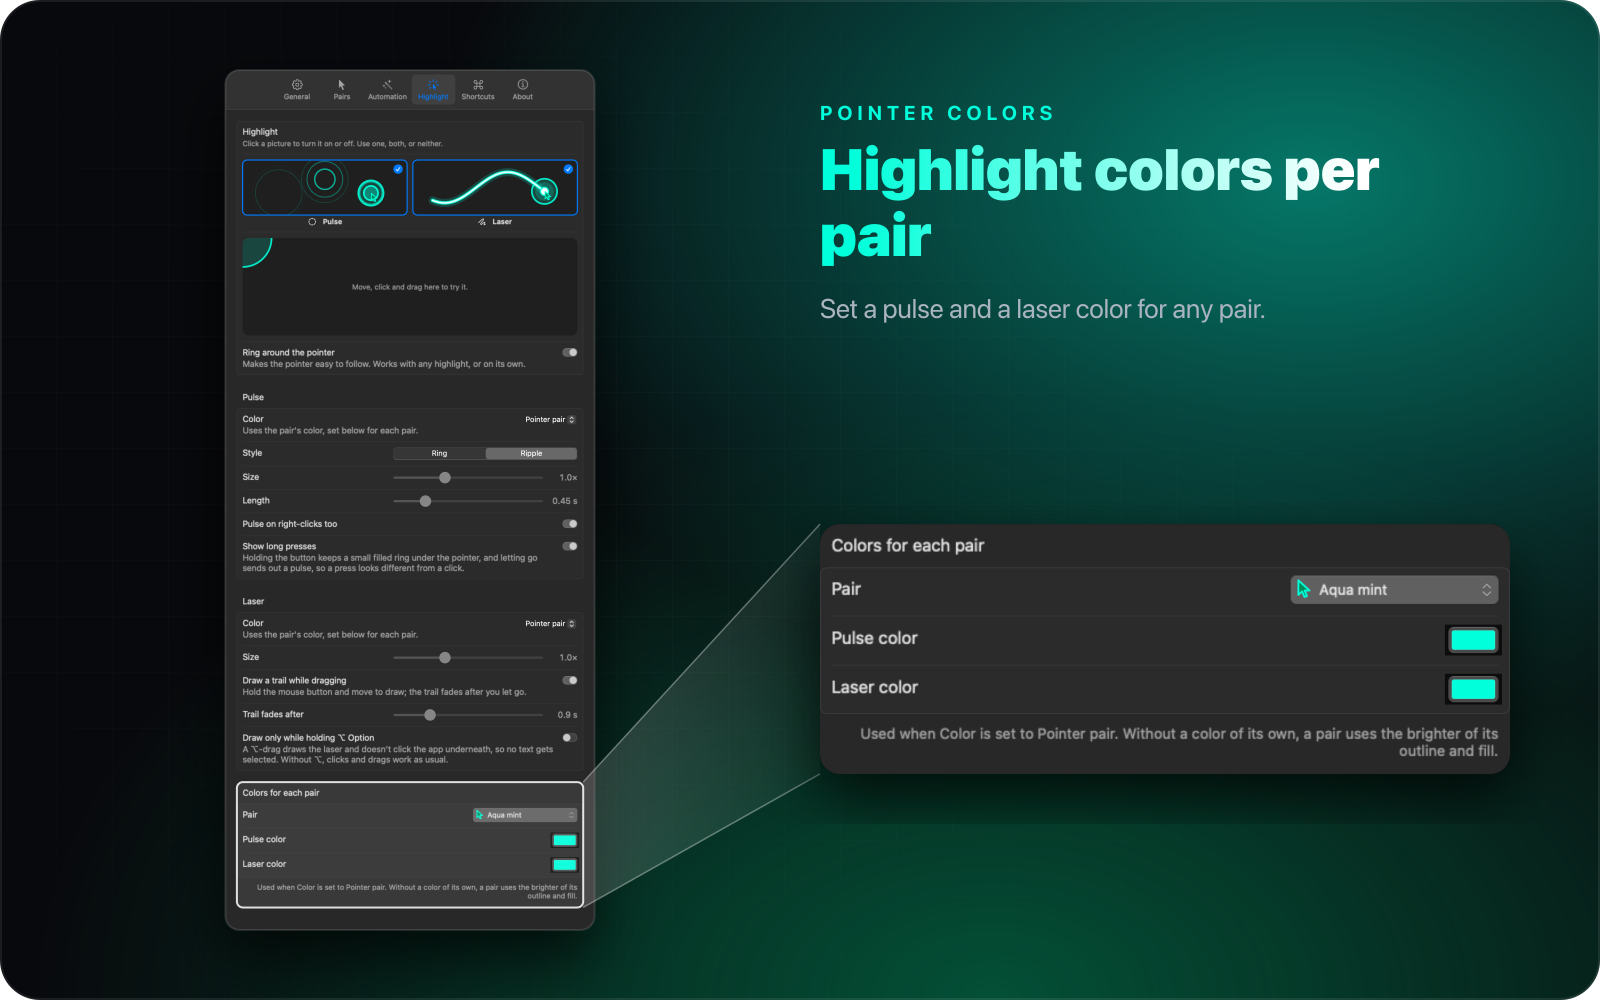
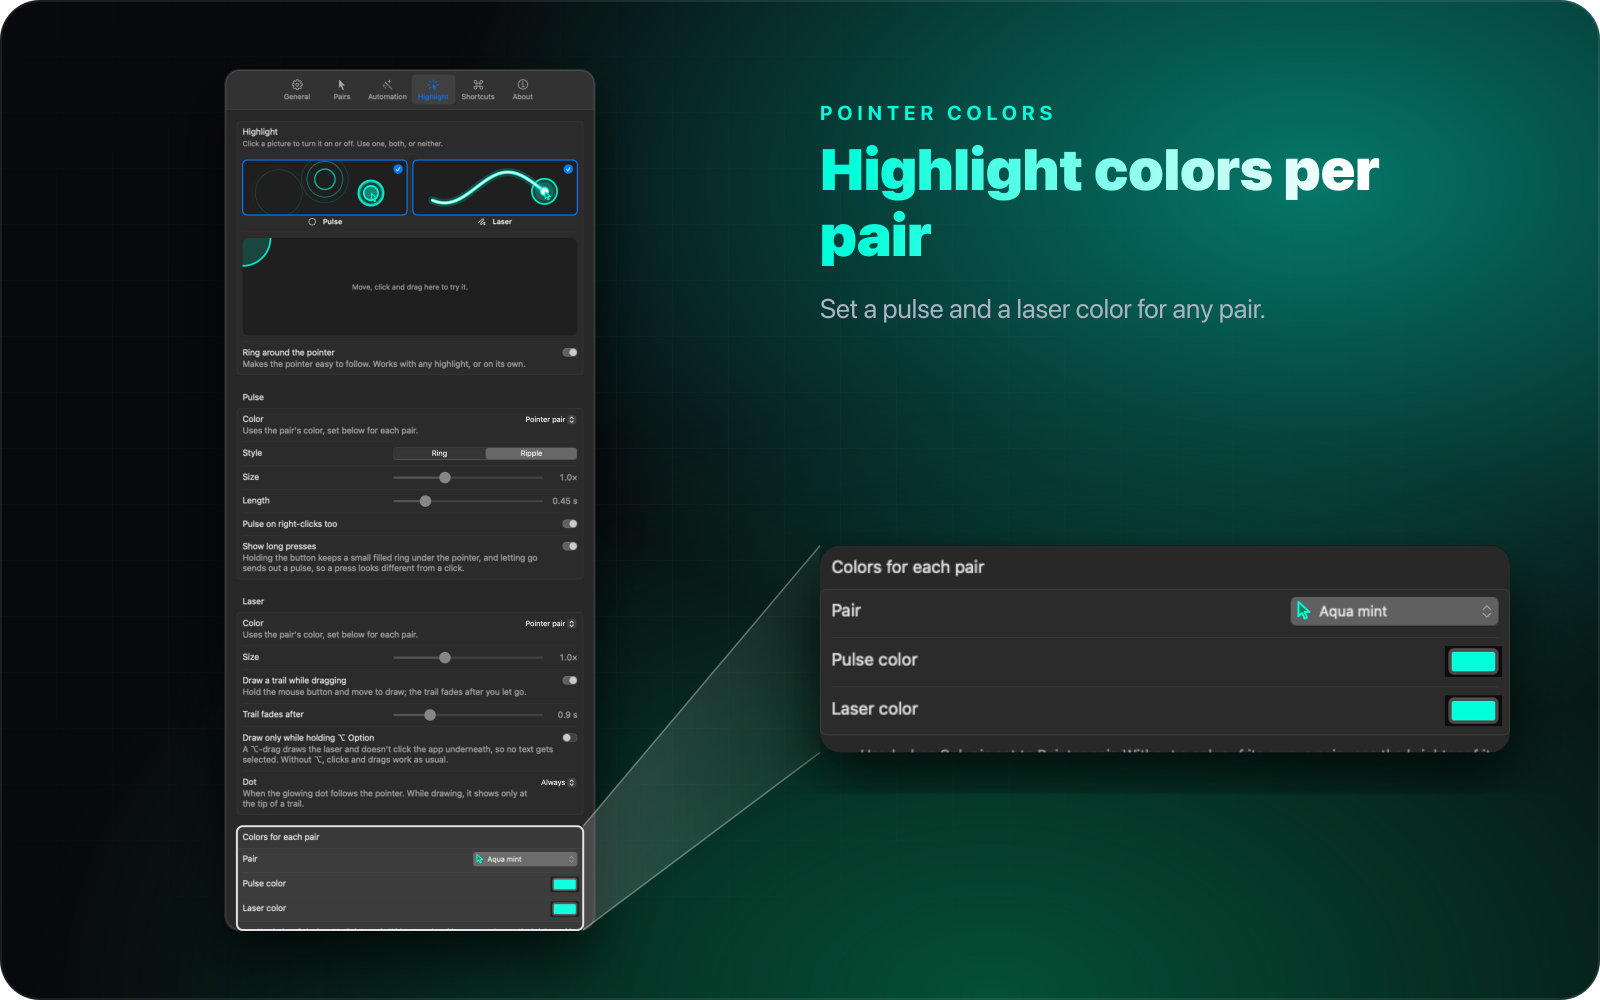
Laser: choose when the dot shows, always, only while drawing, or never
Preferences › Highlight › Laser has a Dot menu. Always, the default, keeps the dot on the
pointer. While drawing shows it only at the tip of a trail, so moving the pointer shows
nothing. Hide never shows it, and a drag still draws. The demo pad follows it too.

The Highlight tab's feature screenshots are retaken, and the laser's caption mentions it.

diff --git a/mac/Sources/PointerColors/Model/PointerHighlight.swift b/mac/Sources/PointerColors/Model/PointerHighlight.swift
@@ -18,6 +18,26 @@ enum PulseStyle: String, CaseIterable, Identifiable {
     }
 }
 
+/// When the laser dot follows the pointer.
+enum LaserDotMode: String, CaseIterable, Identifiable {
+    /// On every pointer move.
+    case always
+    /// Only at the tip of a trail being drawn.
+    case whileDrawing
+    /// Never; a trail still draws.
+    case hidden
+
+    var id: String { rawValue }
+
+    var title: String {
+        switch self {
+        case .always: return String(localized: "Always")
+        case .whileDrawing: return String(localized: "While drawing")
+        case .hidden: return String(localized: "Hide")
+        }
+    }
+}
+
 /// The two highlight effects. Each has its own switch, so either, both or neither can be on.
 enum HighlightEffect: String, CaseIterable, Identifiable {
     /// A ring that grows and fades where you click.
@@ -76,6 +96,8 @@ final class PointerHighlight {
     /// Draws the laser only while ⌥ Option is held, catching the mouse so nothing underneath is
     /// clicked or selected. Off, the laser draws on any drag and the drag also reaches the app.
     var laserNeedsOption: Bool { didSet { save(laserNeedsOption, Key.laserOption) } }
+    /// When the dot follows the pointer.
+    var laserDot: LaserDotMode { didSet { save(laserDot.rawValue, Key.laserDot) } }
 
     /// Pulse and laser colors chosen for particular pairs, by pair id.
     private(set) var pairPulseColors: [String: RGBA] { didSet { saveColors(pairPulseColors, Key.pairPulse) } }
@@ -110,6 +132,7 @@ final class PointerHighlight {
         laserTrail = defaults.bool(forKey: Key.laserTrail)
         laserTrailFade = defaults.double(forKey: Key.laserFade)
         laserNeedsOption = defaults.bool(forKey: Key.laserOption)
+        laserDot = defaults.string(forKey: Key.laserDot).flatMap(LaserDotMode.init(rawValue:)) ?? .always
         pairPulseColors = Self.colors(defaults, Key.pairPulse)
         pairLaserColors = Self.colors(defaults, Key.pairLaser)
     }
@@ -133,6 +156,16 @@ final class PointerHighlight {
     /// A drag draws a laser trail: the laser and its trail are on and, if it needs ⌥, ⌥ is held.
     func laserDraws(optionHeld: Bool) -> Bool {
         laserOn && laserTrail && (optionHeld || !laserNeedsOption)
+    }
+
+    /// The laser dot shows for this move: always, or only while a trail is `drawing`.
+    func laserDotShows(drawing: Bool) -> Bool {
+        guard laserOn else { return false }
+        switch laserDot {
+        case .always: return true
+        case .whileDrawing: return drawing
+        case .hidden: return false
+        }
     }
 
     /// The custom color when chosen; otherwise the color set for this pair, or the pair's own.
@@ -178,6 +211,7 @@ final class PointerHighlight {
     private enum Key {
         static let oldMode = "highlightMode"
         static let laserOption = "highlightLaserNeedsOption"
+        static let laserDot = "highlightLaserDot"
         static let pairPulse = "highlightPairPulseColors"
         static let pairLaser = "highlightPairLaserColors"
         static let pulseOn = "highlightPulse"

diff --git a/mac/Sources/PointerColors/System/HighlightOverlay.swift b/mac/Sources/PointerColors/System/HighlightOverlay.swift
@@ -133,12 +133,13 @@ final class HighlightOverlay {
         case .leftMouseDown, .rightMouseDown, .otherMouseDown:
             press(at: point, isLeft: type == .leftMouseDown, optionHeld: optionHeld)
         case .leftMouseDragged:
-            follow(point)
-            if settings.laserDraws(optionHeld: optionHeld) { extendTrail(to: point) }
+            let draws = settings.laserDraws(optionHeld: optionHeld)
+            follow(point, drawing: draws)
+            if draws { extendTrail(to: point) }
         case .leftMouseUp, .rightMouseUp, .otherMouseUp:
             release(at: point)
         default:
-            follow(point)
+            follow(point, drawing: false)
         }
     }
 
@@ -155,12 +156,12 @@ final class HighlightOverlay {
     }
 
     /// The ring, the long-press ring and the laser dot follow the pointer.
-    private func follow(_ point: CGPoint) {
+    private func follow(_ point: CGPoint, drawing: Bool) {
         placeRing(at: point)
         for display in displays {
             display.pulses.moveHold(to: local(point, in: display.frame))
         }
-        moveDot(to: point)
+        moveDot(to: point, drawing: drawing)
     }
 
     /// Within reach of a display: an effect near the edge also shows on the display next to it.
@@ -209,9 +210,9 @@ final class HighlightOverlay {
     // MARK: Laser
 
     /// The dot shows only on the displays the pointer is on or near, and leaves the one it moved
-    /// away from at once.
-    private func moveDot(to point: CGPoint) {
-        guard settings.laserOn else { return }
+    /// away from at once. When it isn't shown for this move, it is left to fade.
+    private func moveDot(to point: CGPoint, drawing: Bool) {
+        guard settings.laserDotShows(drawing: drawing) else { return }
         let reach = 16 * style.laserSize
         for display in displays {
             if isNear(point, display.frame, reach: reach) {
@@ -350,7 +351,7 @@ final class HighlightScene {
     func move(to point: CGPoint, now: TimeInterval, settings: PointerHighlight) {
         pointer = point
         if hold?.releasedAt == nil { hold?.point = point }
-        guard settings.laserOn else { return }
+        guard settings.laserDotShows(drawing: false) else { return }
         laserDot = LaserDot(point: point, updatedAt: now)
     }
 
@@ -358,6 +359,7 @@ final class HighlightScene {
     func drag(to point: CGPoint, now: TimeInterval, optionHeld: Bool, settings: PointerHighlight) {
         move(to: point, now: now, settings: settings)
         guard settings.laserDraws(optionHeld: optionHeld) else { return }
+        if settings.laserDotShows(drawing: true) { laserDot = LaserDot(point: point, updatedAt: now) }
         extendStroke(to: point)
     }
 

diff --git a/mac/Tests/PointerColorsTests/ModelTests.swift b/mac/Tests/PointerColorsTests/ModelTests.swift
@@ -300,6 +300,27 @@ final class PointerHighlightTests: XCTestCase {
         XCTAssertEqual(scene.strokes.count, 1)
     }
 
+    func testLaserDotCanShowOnlyWhileDrawing() {
+        let highlight = PointerHighlight(defaults: makeDefaults())
+        highlight.laserOn = true
+        highlight.laserDot = .whileDrawing
+        let scene = HighlightScene()
+        scene.move(to: .zero, now: 0, settings: highlight)
+        XCTAssertNil(scene.laserDot, "a plain move shows no dot")
+        scene.press(at: .zero, now: 0.1, isLeft: true, optionHeld: false, settings: highlight)
+        scene.drag(to: CGPoint(x: 30, y: 0), now: 0.2, optionHeld: false, settings: highlight)
+        XCTAssertNotNil(scene.laserDot, "drawing shows it")
+    }
+
+    func testLaserDotModes() {
+        let highlight = PointerHighlight(defaults: makeDefaults())
+        highlight.laserOn = true
+        XCTAssertEqual(highlight.laserDot, .always, "the default")
+        XCTAssertTrue(highlight.laserDotShows(drawing: false))
+        highlight.laserDot = .hidden
+        XCTAssertFalse(highlight.laserDotShows(drawing: true))
+    }
+
     func testQuickClickShowsNoHoldButALongPressDoes() {
         let highlight = PointerHighlight(defaults: makeDefaults())
         highlight.pulseOn = true

diff --git a/mac/Sources/PointerColors/Views/HighlightPreferences.swift b/mac/Sources/PointerColors/Views/HighlightPreferences.swift
@@ -81,6 +81,12 @@ private struct LaserSection: View {
                 Text("A ⌥-drag draws the laser and doesn't click the app underneath, so no text gets selected. Without ⌥, clicks and drags work as usual.")
             }
             .disabled(!highlight.laserTrail)
+            Picker(selection: $highlight.laserDot) {
+                ForEach(LaserDotMode.allCases) { Text($0.title).tag($0) }
+            } label: {
+                Text("Dot")
+                Text("When the glowing dot follows the pointer. While drawing, it shows only at the tip of a trail.")
+            }
         }
         .disabled(!highlight.laserOn)
     }
